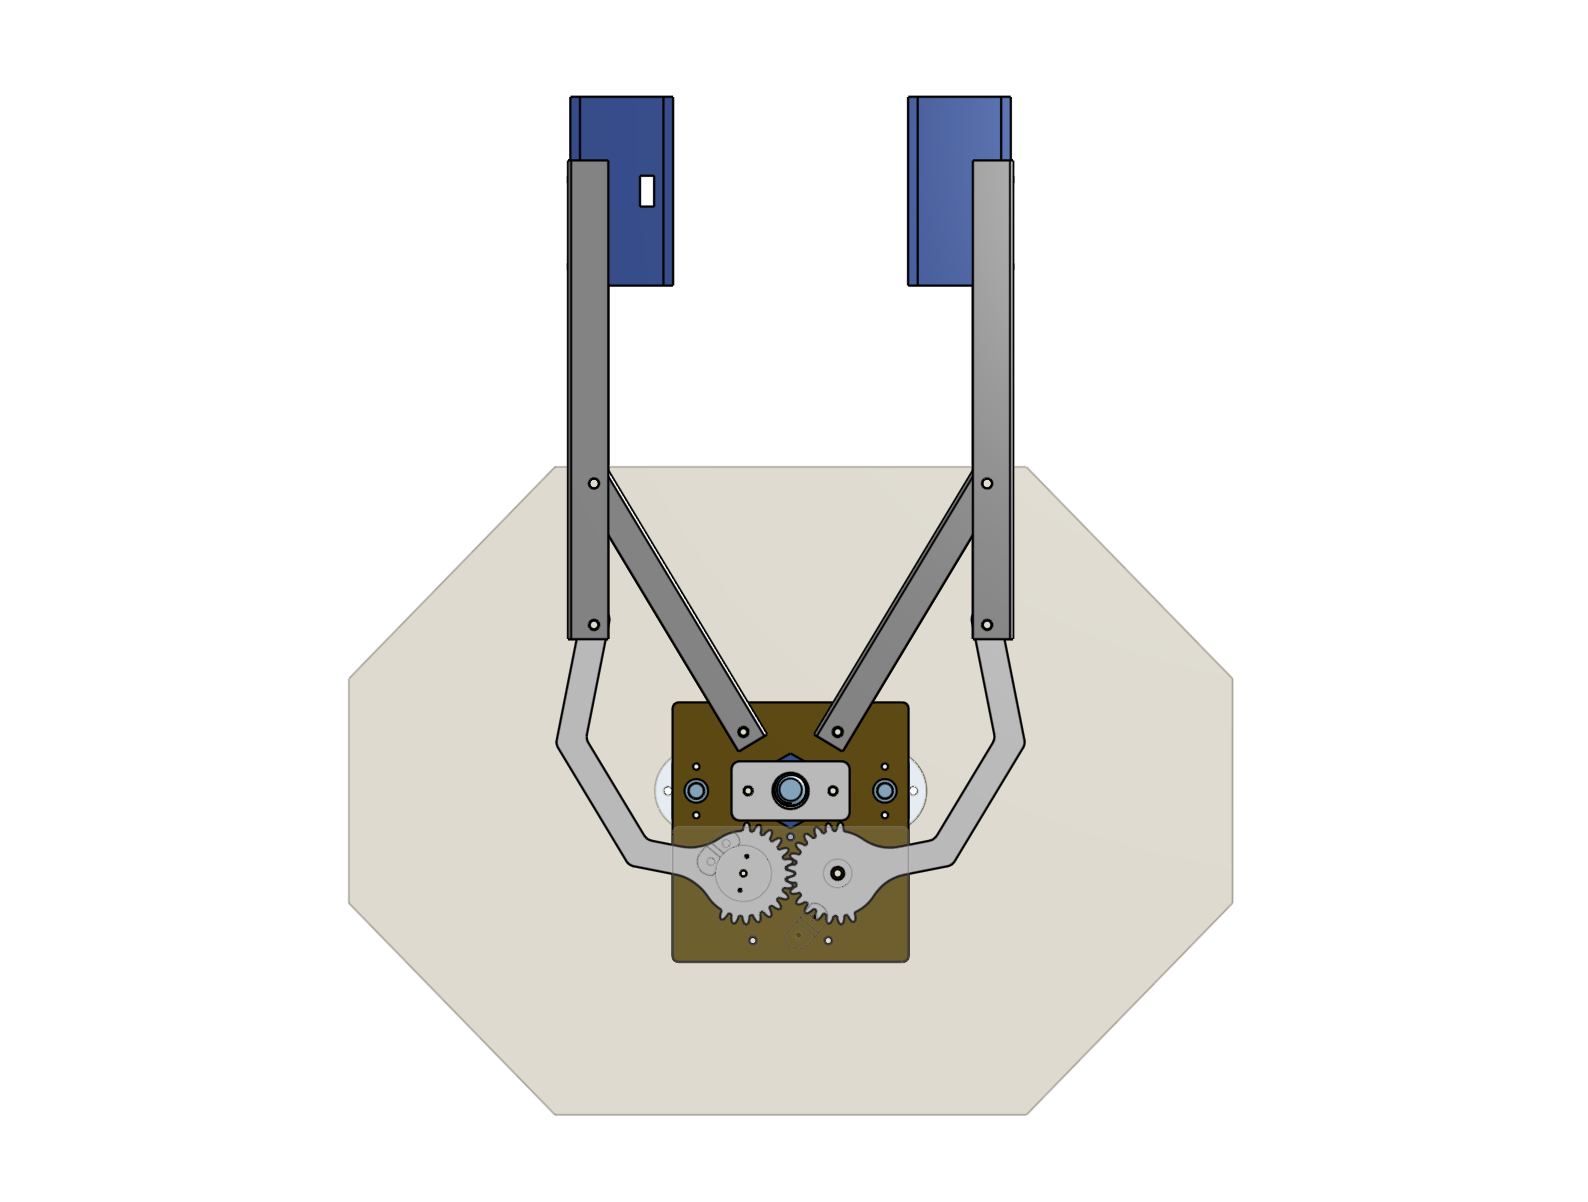
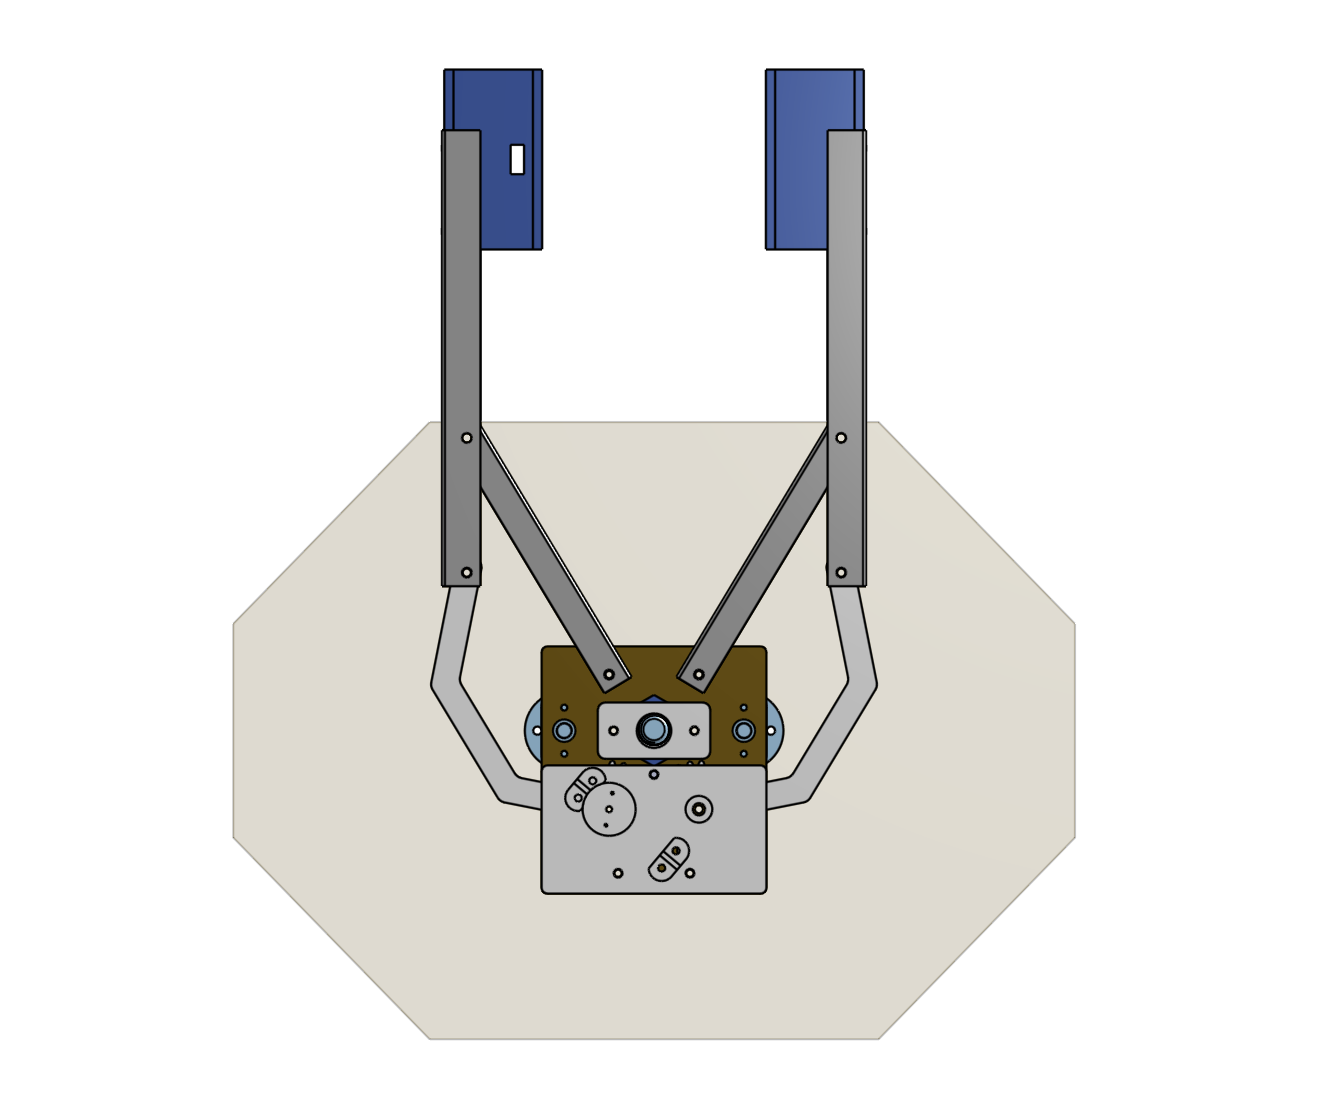
Edite and added claw and platform photos

Changed region(s): [[0.1541, 0.061, 0.8323, 0.9461]]

diff --git a/Mechanical.html b/Mechanical.html
@@ -51,6 +51,17 @@
             padding: 0;
             border-radius: 10px;
         }
+
+        .column3 {
+        float: left;
+        width: 25%;
+        padding: 40px;
+        }
+        .row::after {
+        content: "";
+        clear: both;
+        display: table;
+        }
     </style>
 </head>
     <body>
@@ -89,14 +100,32 @@
                 shape of the item it was clamping. With only two points of contact, the flexible sponge provided better grip 
                 when picking up the food. The four-bar linkage was attached to a piece of MDF that moved up and down thanks 
                 to a leadscrew driven by a DC motor. The ability to move up and down allowed the robot to pick up food at 
-                counter height and stack the item on top of the burger being made on another area of the counter.</p>
+                counter height and stack the item on top of the burger being made on another area of the counter.
+            </p>
+            <p><br></p>
+            <div class="row">
+                <div class="column3">
+                  <img src="RobotSummerPhotos/clawFourBarLinkageCAD.png" alt="Four Bar Linkage CAD" style="width:100%" class ="imagestyle">
+                </div>
+                <div class="column3">
+                  <img src="RobotSummerPhotos/clawLeadScrewCAD.png" alt="Lead Screw CAD" style="width:100%" class ="imagestyle">
+                </div>
+                <div class="column3">
+                    <img src="RobotSummerPhotos/clawClampingPlate.jpg" alt="Lead Screw CAD" style="width:100%" class ="imagestyle">
+                  </div>
+              </div>
+            <p><br></p>
         </section>
 
         <section>
             <h2>Stacking Platform</h2>
             <p>A 3D-printed platform was added to one of the robots, allowing the robot to carry the plate and stack the food 
                 directly on the platform before serving. The platform moved inwards and outwards thanks to a rack and pinion 
-                driven by a continuous servo motor.</p>
+                driven by a continuous servo motor.
+            </p>
+            <p><br></p>
+            <img src="RobotSummerPhotos/robot1Top.jpeg" alt="PointTable" width = "50%;" height = "50%;" class ="imagestyle">
+            <p><br></p>
         </section>
 
         <footer>
